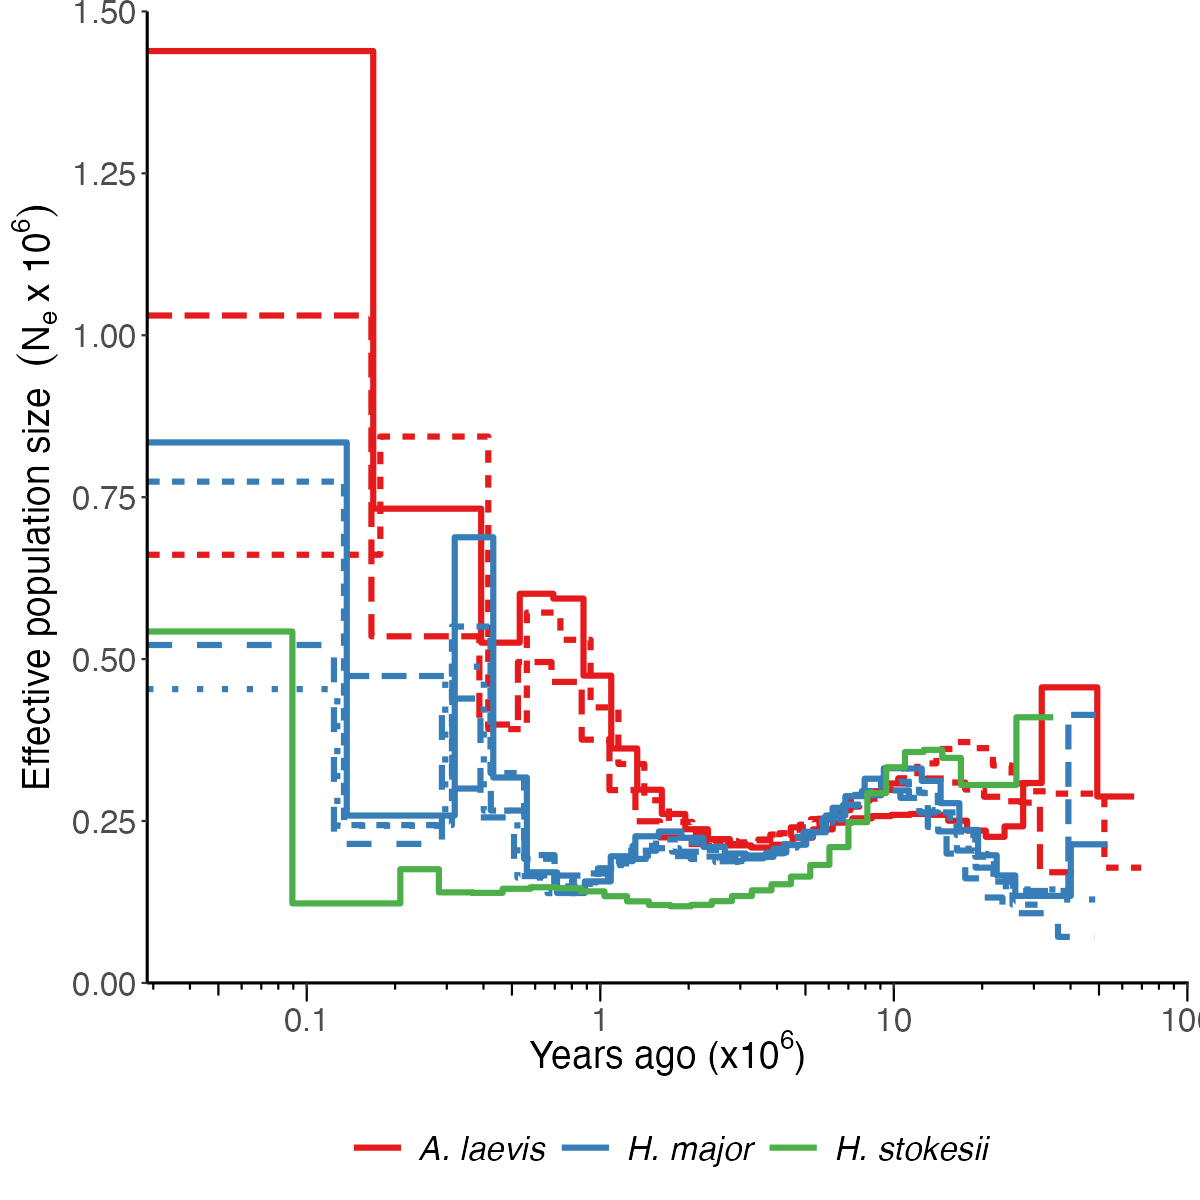
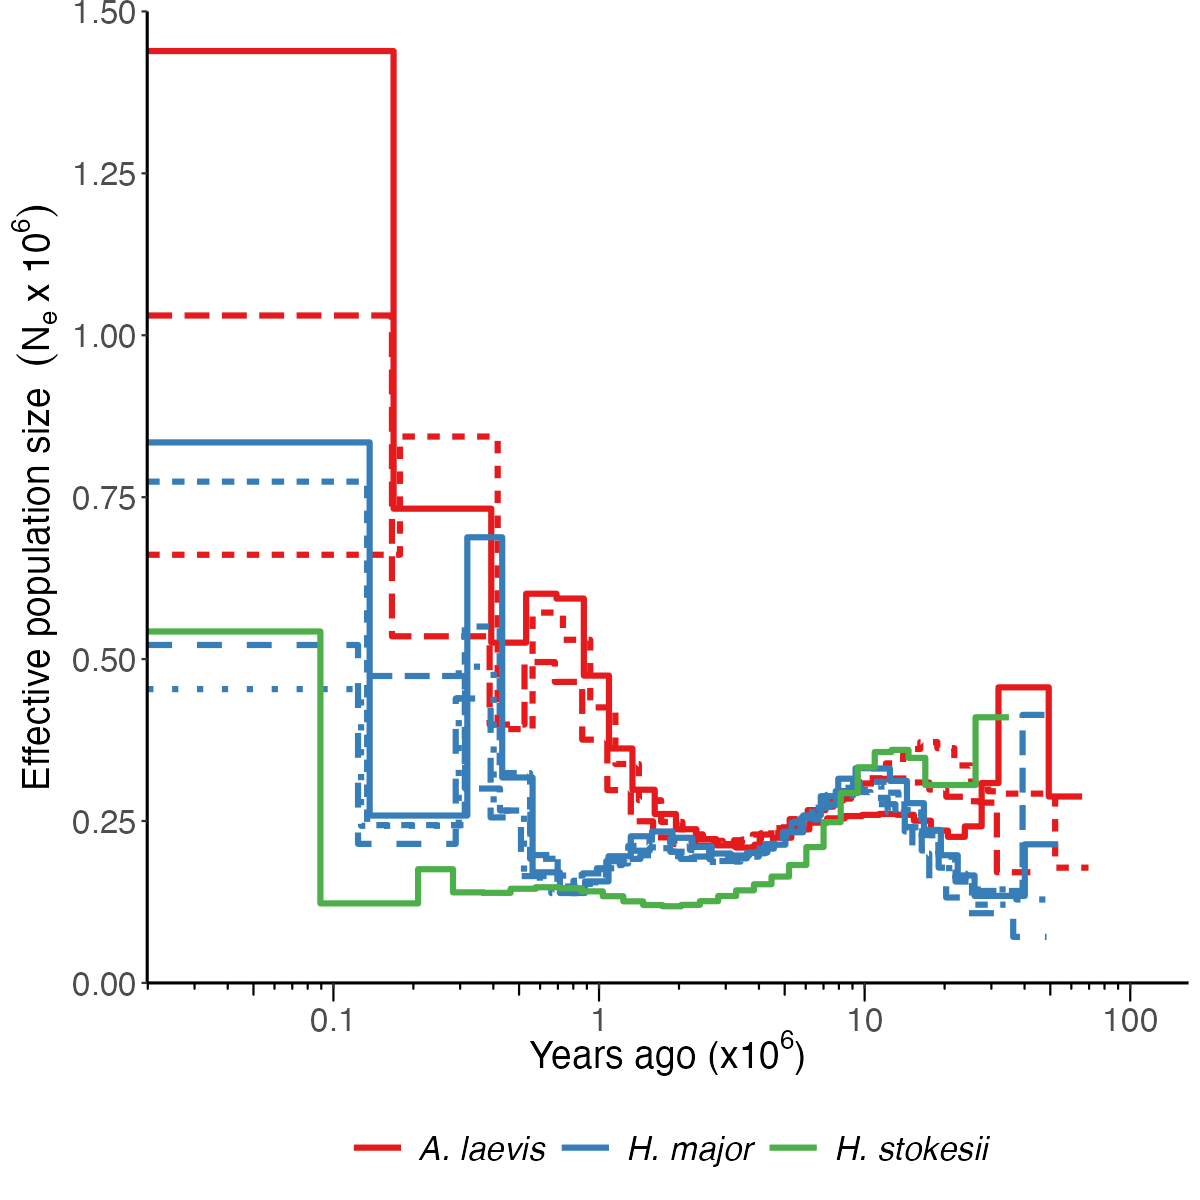
update stairway plot x-axis

diff --git a/results/demography/README.md b/results/demography/README.md
@@ -106,6 +106,7 @@ plot_stairway <- df_msmc |>
     ) +
     geom_step(linewidth = 1.4) +
     scale_x_log10(
+        limits = c(3e4, 110e6),
         labels = scales::label_number(scale = 1e-6, drop0trailing = TRUE)
     ) +
     annotation_logticks(sides = 'b', outside = TRUE, ) +
@@ -138,6 +139,12 @@ plot_stairway <- df_msmc |>
         panel.background = element_blank(),
         axis.line = element_line(colour = "black", linewidth = 0.7)
     )
+plot_stairway
+```
+
+<img src="demography_files/figure-gfm/msmc-data-1.png" width="100%" />
+
+``` r
 ragg::agg_png(
     filename = here("results", "demography", "msmc.png"),
     width = 1200, height = 1200,
@@ -150,4 +157,4 @@ invisible(dev.off())
 plot_stairway
 ```
 
-<img src="demography_files/figure-gfm/msmc-data-1.png" width="100%" />
+<img src="demography_files/figure-gfm/msmc-data-2.png" width="100%" />
